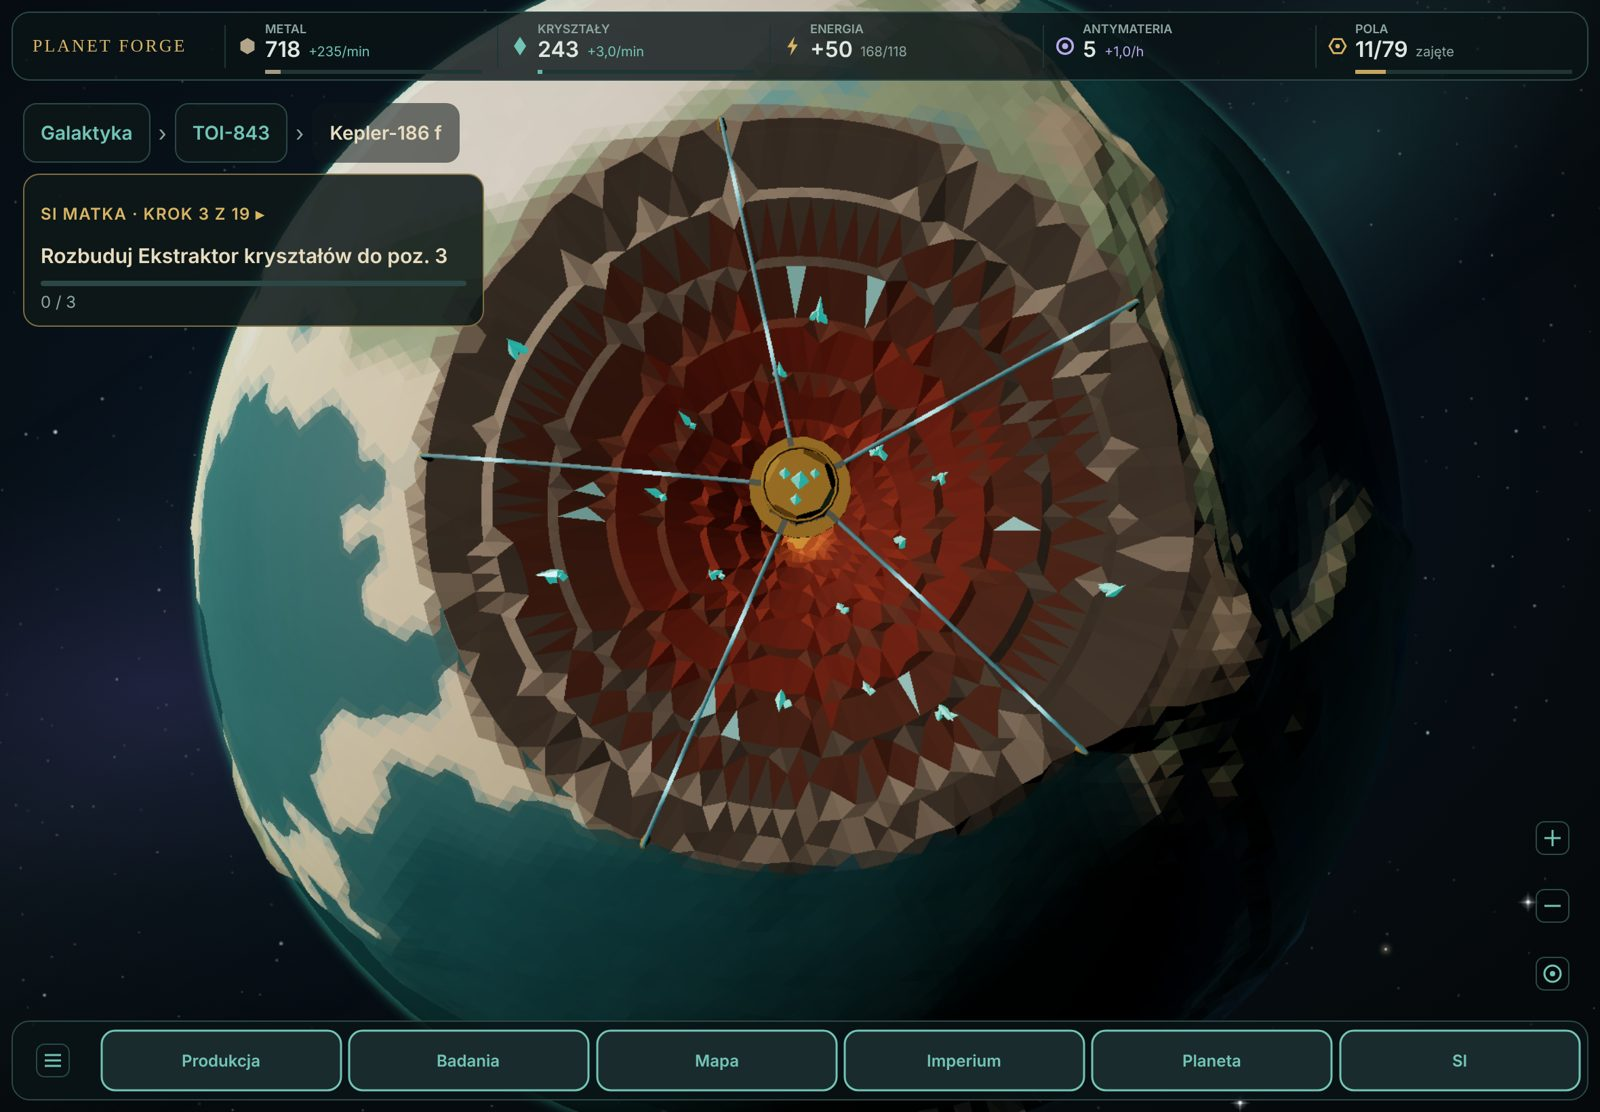
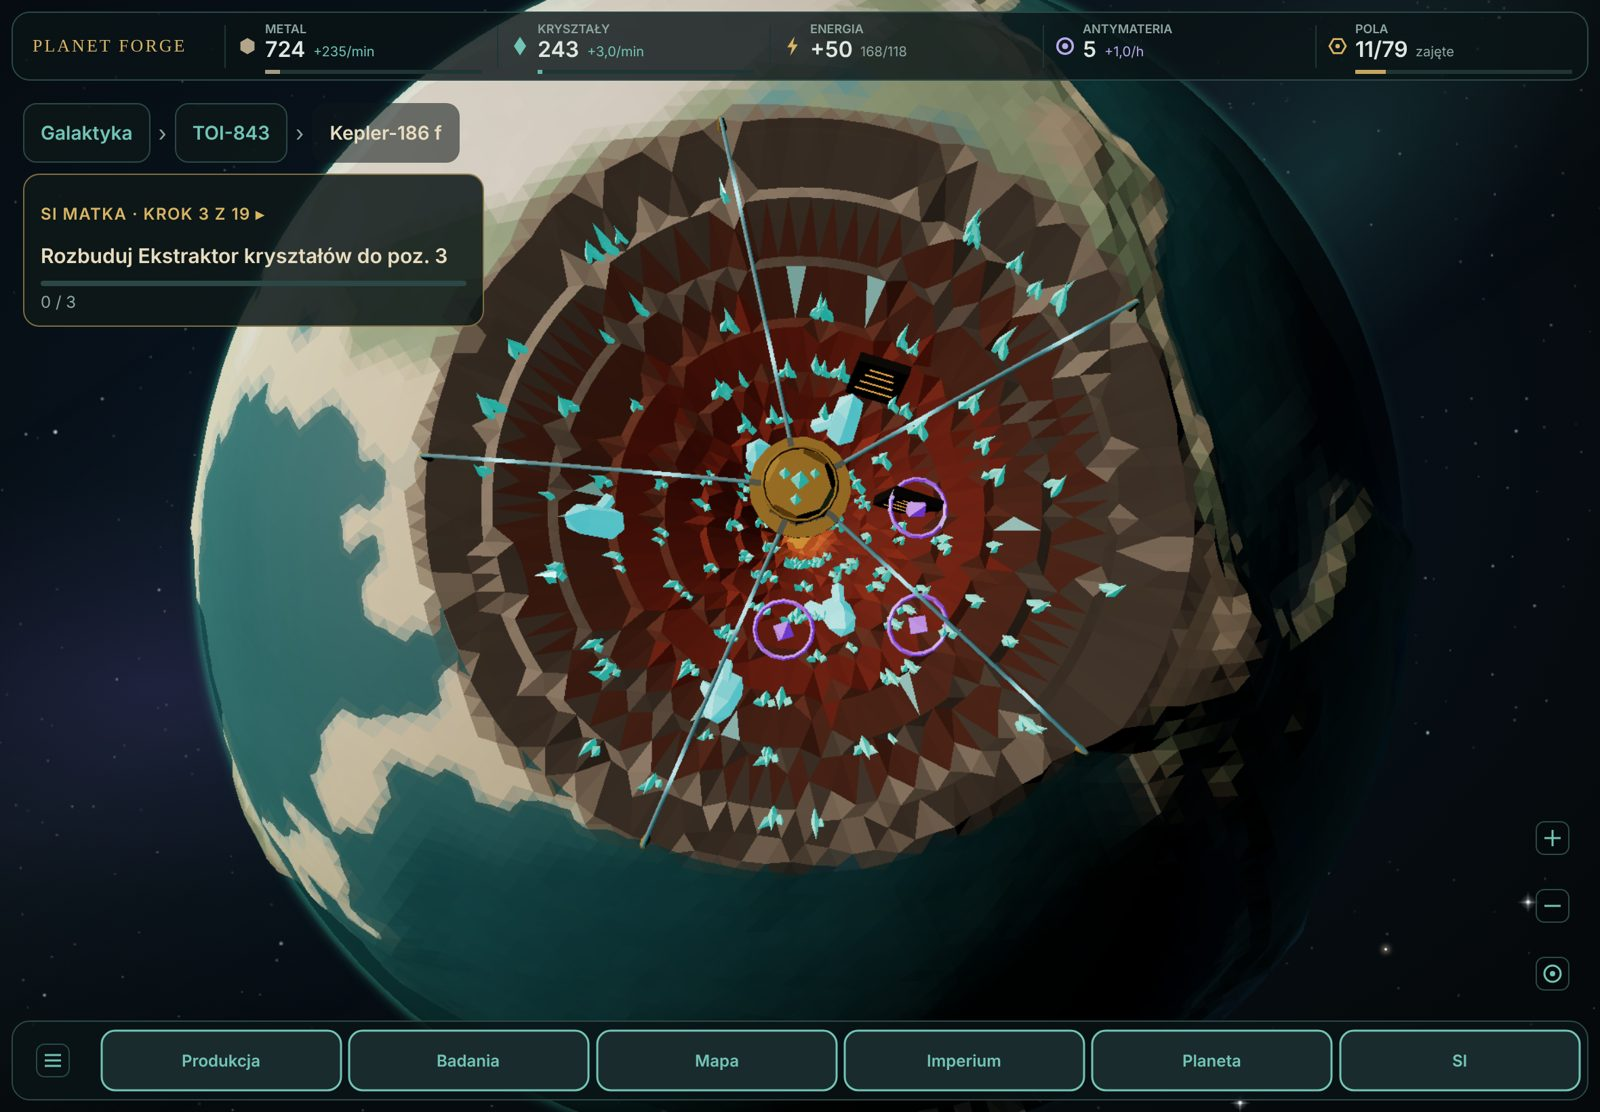
Lej kryształów: dużo kryształów i obiekty znalezisk w leju (3D i 2D)
Claude-Session: https://claude.ai/code/session_01VkPVLkUY4LawJmspCK1nc1

diff --git a/src/planet-renderer/crystalRigMesh.ts b/src/planet-renderer/crystalRigMesh.ts
@@ -105,8 +105,8 @@ export function createCraterCrystals(pit: OpenPit, groundAt: (dir: Vec3) => numb
   const R = pit.centerDistance;
   for (let k = 0; k < count; k++) {
     // Tylko górne warstwy (skała) — niżej płaszcz i żar.
-    const layer = Math.floor(hash01(seed + k, 31) * Math.max(1, Math.ceil(L * 0.6)));
-    const s = (layer + 1 - pit.look.shelf / 2) / L;
+    const layer = Math.floor(hash01(seed + k, 31) * Math.max(1, Math.ceil(L * 0.8)));
+    const s = (layer + 1 - pit.look.shelf * (0.15 + 0.7 * hash01(seed + k, 36))) / L;
     if (!pitBand(pit.look, s).shelf) continue;
     const angle = R - s * (R - pit.floorAngle);
     const bearing = hash01(seed + k, 32) * Math.PI * 2;
@@ -131,4 +131,96 @@ export function createCraterCrystals(pit: OpenPit, groundAt: (dir: Vec3) => numb
   const mesh = new THREE.Mesh(geometry, new THREE.MeshStandardMaterial({ color: CRYSTAL_RIG_LOOK.crystal, emissive: CRYSTAL_RIG_LOOK.crystalGlow, roughness: 0.2, metalness: 0.1, flatShading: true }));
   mesh.name = 'crater-crystals';
   return mesh;
+}
+
+/** Znaleziska widoczne w leju (prototyp): id znaleziska → liczba sztuk (`data/finds.ts`). */
+export type CraterFinds = Readonly<Record<string, number>>;
+
+/** Wygląd znalezisk w leju (robocze; bez treści fabularnych — tylko kształt i barwa z opisu znaleziska). */
+export const CRATER_FIND_LOOK = {
+  /** Kryształ rdzeniowy — wielki, regularny, sześciokątny kryształ na półce. */
+  'core-crystal': { color: '#9ffcff', emissive: '#2bb8c4' },
+  /** Odłamek rezonansowy — fioletowy odłamek unoszący się nad półką w pierścieniu. */
+  'resonant-shard': { color: '#c9a8ff', emissive: '#6a3fd0' },
+  /** Zapis z głębi — ciemna płyta z jasnym, uporządkowanym wzorem. */
+  'deep-record': { color: '#26221f', emissive: '#e0a040' },
+} as const;
+
+/**
+ * Obiekty znalezisk na półkach leja: każda sztuka to osobny obiekt na środku półki (deterministycznie z `seed` i id),
+ * najwyżej 3 warstwy od dna. Kilka rysowań (po jednym na rodzaj). Odłamki unoszą się i obracają (`update`).
+ */
+export function createCraterFinds(pit: OpenPit, groundAt: (dir: Vec3) => number, finds: CraterFinds, seed: number): { group: THREE.Group; update(dt: number, still: boolean): void } {
+  const group = new THREE.Group();
+  group.name = 'crater-finds';
+  const L = pit.look.layers;
+  const c = new THREE.Vector3(...pit.center);
+  const helper = Math.abs(c.y) < 0.9 ? new THREE.Vector3(0, 1, 0) : new THREE.Vector3(1, 0, 0);
+  const e1 = helper.clone().cross(c).normalize();
+  const e2 = c.clone().cross(e1);
+  const R = pit.centerDistance;
+  // Wielkość obiektów rośnie z lejem (najwyżej jak duża gromada kryształów × 3).
+  const unit = Math.min(0.045, 0.015 + R * 0.06);
+  const spinners: THREE.Object3D[] = [];
+  let slot = 0;
+  const place = (id: string, n: number): { dir: THREE.Vector3; radius: number; q: THREE.Quaternion } => {
+    const h = hash01(seed + slot * 13, id.length + 40);
+    slot++;
+    const layer = Math.max(0, Math.min(L - 1, Math.floor(L * 0.25 + h * L * 0.5)));
+    const s = (layer + 1 - pit.look.shelf / 2) / L;
+    const angle = R - s * (R - pit.floorAngle);
+    const bearing = (slot / 10) * Math.PI * 2 + n * 0.37 + hash01(seed + slot, 41) * 0.4;
+    const t = e1.clone().multiplyScalar(Math.cos(bearing)).add(e2.clone().multiplyScalar(Math.sin(bearing)));
+    const dir = c.clone().multiplyScalar(Math.cos(angle)).add(t.multiplyScalar(Math.sin(angle))).normalize();
+    const radius = groundAt([dir.x, dir.y, dir.z]);
+    return { dir, radius, q: new THREE.Quaternion().setFromUnitVectors(new THREE.Vector3(0, 1, 0), dir) };
+  };
+  const material = (id: keyof typeof CRATER_FIND_LOOK) =>
+    new THREE.MeshStandardMaterial({ color: CRATER_FIND_LOOK[id].color, emissive: CRATER_FIND_LOOK[id].emissive, emissiveIntensity: 0.8, roughness: 0.25, metalness: 0.2, flatShading: true });
+  const at = (o: THREE.Object3D, p: { dir: THREE.Vector3; radius: number; q: THREE.Quaternion }) => {
+    o.position.copy(p.dir.clone().multiplyScalar(p.radius));
+    o.quaternion.copy(p.q);
+    group.add(o);
+  };
+  for (let n = 0; n < (finds['core-crystal'] ?? 0); n++) {
+    // Sześciokątny słup z ostrym szczytem i dwoma mniejszymi u podstawy.
+    const g = mergeGeometries([
+      new THREE.CylinderGeometry(unit * 0.45, unit * 0.5, unit * 2.2, 6).translate(0, unit * 1.1, 0),
+      new THREE.ConeGeometry(unit * 0.45, unit * 0.9, 6).translate(0, unit * 2.65, 0),
+      new THREE.CylinderGeometry(unit * 0.22, unit * 0.25, unit * 1.1, 6).rotateZ(0.5).translate(unit * 0.55, unit * 0.45, 0),
+      new THREE.CylinderGeometry(unit * 0.2, unit * 0.22, unit * 0.9, 6).rotateX(-0.5).translate(0, unit * 0.4, unit * 0.5),
+    ])!;
+    at(new THREE.Mesh(g, material('core-crystal')), place('core-crystal', n));
+  }
+  for (let n = 0; n < (finds['resonant-shard'] ?? 0); n++) {
+    // Odłamek w powietrzu nad półką, wokół cienki pierścień.
+    const holder = new THREE.Group();
+    const shard = new THREE.Mesh(new THREE.OctahedronGeometry(unit * 0.6, 0).scale(0.6, 1.8, 0.6), material('resonant-shard'));
+    shard.position.y = unit * 2.2;
+    const ring = new THREE.Mesh(new THREE.TorusGeometry(unit * 0.9, unit * 0.07, 4, 16).rotateX(Math.PI / 2), material('resonant-shard'));
+    ring.position.y = unit * 2.2;
+    holder.add(shard, ring);
+    spinners.push(shard);
+    at(holder, place('resonant-shard', n));
+  }
+  for (let n = 0; n < (finds['deep-record'] ?? 0); n++) {
+    // Pionowa ciemna płyta z jasnymi, równoległymi pasami (uporządkowany wzór).
+    const holder = new THREE.Group();
+    holder.add(new THREE.Mesh(new THREE.BoxGeometry(unit * 1.6, unit * 2.4, unit * 0.3).translate(0, unit * 1.2, 0), new THREE.MeshStandardMaterial({ color: CRATER_FIND_LOOK['deep-record'].color, roughness: 0.6, metalness: 0.3, flatShading: true })));
+    const lines = mergeGeometries([0.6, 1.1, 1.6, 2.0].map((y, i) => new THREE.BoxGeometry(unit * (1.2 - i * 0.15), unit * 0.08, unit * 0.34).translate(0, unit * y, 0)))!;
+    holder.add(new THREE.Mesh(lines, new THREE.MeshBasicMaterial({ color: CRATER_FIND_LOOK['deep-record'].emissive, toneMapped: false })));
+    at(holder, place('deep-record', n));
+  }
+  let time = 0;
+  return {
+    group,
+    update(dt, still) {
+      if (still) return;
+      time += dt;
+      for (const [i, o] of spinners.entries()) {
+        o.rotation.y += dt * 0.8;
+        o.position.y = unit * (2.2 + 0.25 * Math.sin(time * 1.5 + i));
+      }
+    },
+  };
 }

diff --git a/src/planet-renderer/CanvasPlanetFallback.ts b/src/planet-renderer/CanvasPlanetFallback.ts
@@ -5,7 +5,7 @@ import type { Plots } from '../core/colony/plots.ts';
 import type { Complex } from '../core/colony/complexes.ts';
 import { cellLookup, collectorOrbit, constructOrbit, hash01, stationOrbit, layoutFromPlots, plotsKey, type CellLookup, type ColonyLayout } from './colony.ts';
 import { complexGround, craterGround, type CraterColors } from './complexLook.ts';
-import { buildCrater, craterSite } from './crater.ts';
+import { buildCrater, craterSite, craterSpot } from './crater.ts';
 import { drillLook } from '../data/drill.ts';
 import { buildOpenPit, type OpenPit } from './openPit.ts';
 import { borderChains, borderStates, cellBorders, CHOICE, FIELD_COLORS, FIELD_LINE, HIGHLIGHT, outlineBorders, type BorderChain, type HighlightMode } from './fieldOverlay.ts';
@@ -43,6 +43,7 @@ export class CanvasPlanetFallback implements PlanetDisplay {
   /** Prototyp krateru megakonstruktu kryształów (tylko wygląd) i jego etap. */
   private crater: OpenPit | null = null;
   private craterStage = 1;
+  private craterFinds: Readonly<Record<string, number>> = {};
   private craterColors: CraterColors | null = null;
   private planetType = '';
   private levels: BuildingLevels | undefined;
@@ -209,6 +210,39 @@ export class CanvasPlanetFallback implements PlanetDisplay {
       ctx.fillStyle = '#8ff5e2';
       ctx.fillRect(snapX(c.x + (end.x - c.x) * t), snapY(c.y + (end.y - c.y) * t), pixel, pixel);
     }
+    // Znaleziska na półkach leja (jak w 3D): kryształ rdzeniowy — turkusowy słup, odłamek rezonansowy — fioletowy
+    // romb nad półką, zapis z głębi — ciemna płyta z jasnymi pasami.
+    const L = crater.look.layers;
+    let slot = 0;
+    for (const id of ['core-crystal', 'resonant-shard', 'deep-record'] as const) {
+      for (let n = 0; n < (this.craterFinds[id] ?? 0); n++) {
+        slot++;
+        const layer = Math.max(0, Math.min(L - 1, Math.floor(L * 0.25 + hash01(slot * 13, id.length + 40) * L * 0.5)));
+        const p = toScreen(craterSpot(crater, (layer + 1 - crater.look.shelf / 2) / L, (slot / 10) * Math.PI * 2 + n * 0.37));
+        if (p.depth < 0.1) continue;
+        const x = snapX(p.x);
+        const y = snapY(p.y);
+        const sz = this.craterStage >= 3 ? 2 : 1;
+        if (id === 'core-crystal') {
+          ctx.fillStyle = '#2bb8c4';
+          ctx.fillRect(x - sz * pixel, y - 4 * sz * pixel, sz * 2 * pixel, 5 * sz * pixel);
+          ctx.fillStyle = '#9ffcff';
+          ctx.fillRect(x - (sz - 1) * pixel - (sz === 1 ? 0 : 0), y - 5 * sz * pixel, Math.max(1, sz) * pixel, 2 * sz * pixel);
+        } else if (id === 'resonant-shard') {
+          const bob = now === 0 ? 0 : Math.round(Math.sin(now / 500 + n));
+          ctx.fillStyle = '#c9a8ff';
+          ctx.fillRect(x, y - (4 + bob) * sz * pixel, sz * pixel, 3 * sz * pixel);
+          ctx.fillRect(x - sz * pixel, y - (3 + bob) * sz * pixel, 3 * sz * pixel, sz * pixel);
+          ctx.fillStyle = '#6a3fd0';
+          ctx.fillRect(x - 2 * sz * pixel, y - sz * pixel, 5 * sz * pixel, sz * pixel);
+        } else {
+          ctx.fillStyle = '#26221f';
+          ctx.fillRect(x - 2 * sz * pixel, y - 4 * sz * pixel, 4 * sz * pixel, 5 * sz * pixel);
+          ctx.fillStyle = '#e0a040';
+          for (let r = 0; r < 3; r++) ctx.fillRect(x - sz * pixel, y - (3 - r * 1.2) * sz * pixel, 2 * sz * pixel, Math.max(1, sz * 0.5) * pixel);
+        }
+      }
+    }
     // Piasta: złoty pierścień, stalowy środek, kryształ na wierzchu.
     const n = 1 + this.craterStage;
     const x0 = snapX(c.x);
@@ -340,12 +374,13 @@ export class CanvasPlanetFallback implements PlanetDisplay {
   }
 
   /** Prototyp: krater kryształów na polu `cell` w etapie `stage` (null — wyłączony). Tylko wygląd. */
-  setCraterPrototype(proto: { cell: number; stage: 1 | 2 | 3 | 4 } | null): void {
+  setCraterPrototype(proto: { cell: number; stage: 1 | 2 | 3 | 4; finds?: Readonly<Record<string, number>> } | null): void {
     const colony = this.colony;
     const index = proto && this.grid ? (proto.cell >= 0 ? proto.cell : craterSite(this.grid.cells, (colony?.complexes ?? []).flatMap((c) => c.cells.map((i) => this.grid!.cells[i]!.center as [number, number, number])))) : -1;
     const cell = proto && this.grid ? this.grid.cells[index] : undefined;
     this.crater = proto && cell ? buildCrater(cell.center as [number, number, number], proto.stage, () => 1) : null;
     this.craterStage = proto?.stage ?? 1;
+    this.craterFinds = proto?.finds ?? {};
     const look = drillLook(this.planetType);
     const rgb = (h: string): [number, number, number] => {
       const n = parseInt(h.slice(1), 16);

diff --git a/src/planet-renderer/PlanetView.ts b/src/planet-renderer/PlanetView.ts
@@ -15,7 +15,7 @@ import { pitDepthMax, pitShare, pitSink3d } from './complexLook.ts';
 import { bearingOf, buildDrill, drillParams, drillStage, layerAt, rimPoint, type DrillParams } from './drill.ts';
 import { drillLook } from '../data/drill.ts';
 import { buildCrater, CRATER_MIN_RADIUS, craterSite } from './crater.ts';
-import { createCraterCrystals, createCrystalRig, type CrystalRig } from './crystalRigMesh.ts';
+import { createCraterCrystals, createCraterFinds, createCrystalRig, type CraterFinds, type CrystalRig } from './crystalRigMesh.ts';
 import { buildOpenPit, oceanCutValue, pitBand, pitRadius, snapToContours, type OpenPit } from './openPit.ts';
 import { createPitCables, type PitCables } from './openPitMeshes.ts';
 import { createOrbitalConstruct, HANG_ATTACH, HANG_BOTTOM, type Hanging } from './colonyMeshes.ts';
@@ -322,11 +322,11 @@ export class PlanetView implements PlanetDisplay {
 
   private paused = false;
   /** Prototyp krateru megakonstruktu kryształów (zrzuty do oceny właściciela): pole środka i etap 1–4. */
-  private craterProto: { cell: number; stage: 1 | 2 | 3 | 4 } | null = null;
+  private craterProto: { cell: number; stage: 1 | 2 | 3 | 4; finds?: CraterFinds } | null = null;
   private craterRig: CrystalRig | null = null;
 
   /** Prototyp: krater kryształów na polu `cell` w etapie `stage` (null — wyłączony). Tylko wygląd. */
-  setCraterPrototype(proto: { cell: number; stage: 1 | 2 | 3 | 4 } | null): void {
+  setCraterPrototype(proto: { cell: number; stage: 1 | 2 | 3 | 4; finds?: CraterFinds } | null): void {
     this.craterProto = proto;
     if (this.layout) this.applyColony(this.layout, false);
   }
@@ -343,8 +343,15 @@ export class PlanetView implements PlanetDisplay {
     const rig = createCrystalRig(hanging, pit.look.cables);
     const all = new THREE.Group();
     all.name = 'crater-rig';
-    all.add(rig.group, createCraterCrystals(pit, (dir) => this.pitGround(dir), 3 + stage * 3, seed));
-    this.craterRig = { group: all, update: rig.update };
+    const finds = createCraterFinds(pit, (dir) => this.pitGround(dir), this.craterProto?.finds ?? {}, seed);
+    all.add(rig.group, createCraterCrystals(pit, (dir) => this.pitGround(dir), 30 + stage * 30, seed), finds.group);
+    this.craterRig = {
+      group: all,
+      update: (dt, still) => {
+        rig.update(dt, still);
+        finds.update(dt, still);
+      },
+    };
     this.spinGroup.add(all);
   }
 

diff --git a/src/planet-renderer/crater.ts b/src/planet-renderer/crater.ts
@@ -117,3 +117,13 @@ export function craterSite(cells: readonly { center: readonly number[]; kind: st
   }
   return best;
 }
+
+/** Punkt leja na „wysokości” `s` (0 — krawędź, 1 — dno) w kierunku `bearing` wokół środka. Czysta matematyka. */
+export function craterSpot(pit: OpenPit, s: number, bearing: number): Vec3 {
+  const c = pit.center;
+  const t0 = norm(Math.abs(c[0]) < 0.9 ? [0, -c[2], c[1]] : [-c[2], 0, c[0]]);
+  const t1: Vec3 = [c[1] * t0[2] - c[2] * t0[1], c[2] * t0[0] - c[0] * t0[2], c[0] * t0[1] - c[1] * t0[0]];
+  const angle = pit.centerDistance - s * (pit.centerDistance - pit.floorAngle);
+  const d: Vec3 = [t0[0] * Math.cos(bearing) + t1[0] * Math.sin(bearing), t0[1] * Math.cos(bearing) + t1[1] * Math.sin(bearing), t0[2] * Math.cos(bearing) + t1[2] * Math.sin(bearing)];
+  return norm([c[0] * Math.cos(angle) + d[0] * Math.sin(angle), c[1] * Math.cos(angle) + d[1] * Math.sin(angle), c[2] * Math.cos(angle) + d[2] * Math.sin(angle)]);
+}

diff --git a/src/planet-renderer/complexLook.ts b/src/planet-renderer/complexLook.ts
@@ -247,7 +247,7 @@ export function craterGround(pit: OpenPit, p: Vec3, colors: CraterColors): Groun
     return lotCrystal(p, 0.08) && layer < 2 ? { rgb: CRYSTAL, glow: 0.8 } : { rgb: shade(colors.layers[Math.min(3, layer + 1)]!, 0.6), glow: 0 };
   }
   const { shelf } = pitBand(pit.look, s);
-  if (shelf && layer < 2 && lotCrystal(p, 0.012)) return { rgb: CRYSTAL, glow: 0.8 };
+  if (layer < 3 && lotCrystal(p, shelf ? 0.16 : 0.05)) return { rgb: CRYSTAL, glow: 0.8 };
   const base = shelf ? shade(colors.layers[layer]!, 1.12) : shade(colors.layers[Math.min(3, layer + 1)]!, 0.8);
   const rgb: [number, number, number] = [0, 1, 2].map((j) => base[j]! + (colors.glow[j]! - base[j]!) * heat * 0.7) as [number, number, number];
   return { rgb, glow: heat * 0.6 };

diff --git a/src/planet-renderer/PlanetDisplay.ts b/src/planet-renderer/PlanetDisplay.ts
@@ -55,7 +55,7 @@ export interface PlanetDisplay {
   /** Ile modeli planet trzyma pamięć 3D (diagnostyka, etap F widoku układu). */
   modelCache?(): number;
   /** Prototyp krateru megakonstruktu kryształów (tylko wygląd, do zrzutów). */
-  setCraterPrototype?(proto: { cell: number; stage: 1 | 2 | 3 | 4 } | null): void;
+  setCraterPrototype?(proto: { cell: number; stage: 1 | 2 | 3 | 4; finds?: Readonly<Record<string, number>> } | null): void;
   /** Docelowe przybliżenie (to, do którego widok dochodzi). */
   zoomLevel(): number;
   /** Pokaż / ukryj siatkę pól (Ustawienia → Widok). */
